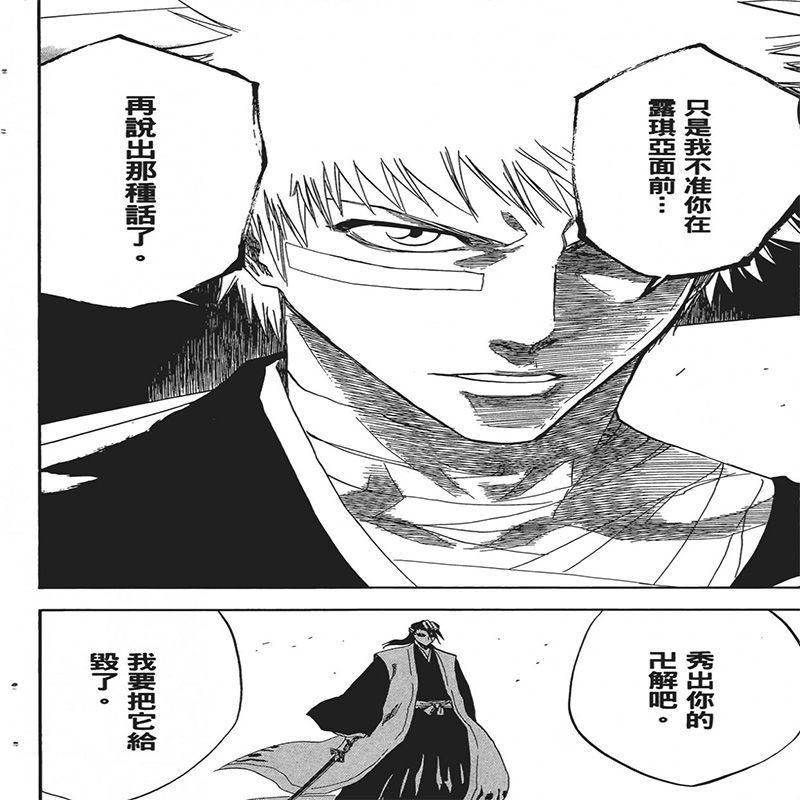
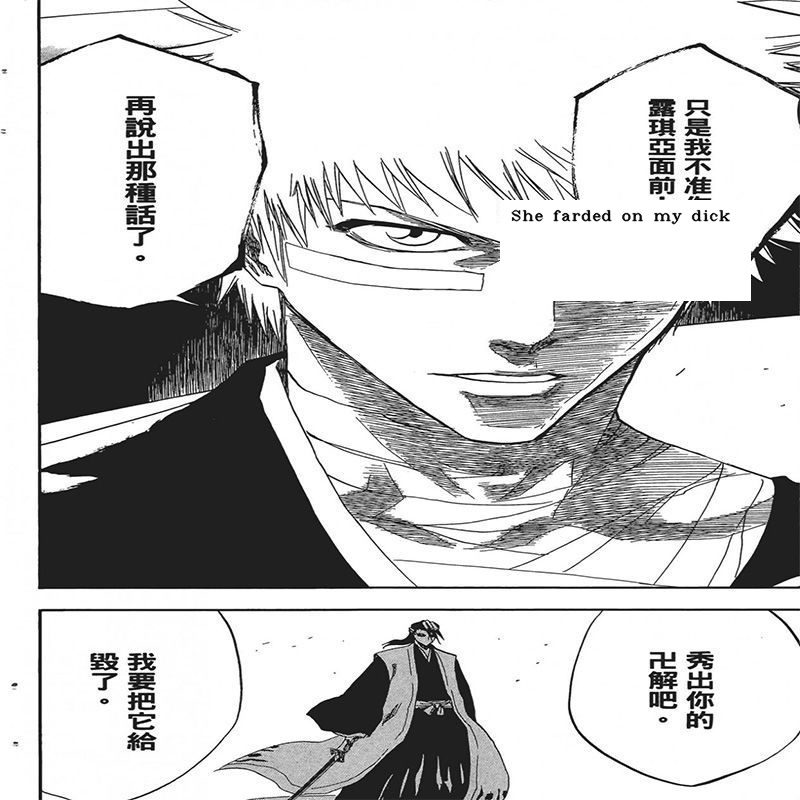
Melded the 2 image processing functions together

Changed region(s): [[0.625, 0.25, 0.9375, 0.375]]

diff --git a/files/image_processing.py b/files/image_processing.py
@@ -1,21 +1,18 @@
 import cv2
+import tkinter as tk
+from tkinter import filedialog
+from PIL import Image, ImageTk, ImageDraw 
 
-def white_out(x1, x2, y1, y2, path):
+def process_image(x1, x2, y1, y2, path, text):
     img = cv2.imread(path)
     cv2.rectangle(img,(x1,y1),(x2,y2),(255, 255, 255),-1)
-    cv2.imwrite(path, img)
-        
-        
-#white(500, 600, 200, 300, 'images\download.jpg')
-
-def sharpie_marker(x ,y, path, text):
-    # Reading an image in default mode
-    img = cv2.imread(path)
     font = cv2.FONT_HERSHEY_COMPLEX_SMALL
-    org = (x, y)
-    fontScale = 1
+    org = (x, y) #Origin of character
+    fontScale = .75
     color = (0, 0, 0)
-    thickness = 2
+    thickness = 1
     img = cv2.putText(img, text, org, font, fontScale, color, thickness, cv2.LINE_AA, False) # Change to true to change where it renders from
-    # Displaying the image
     cv2.imwrite(path, img)
+    
+process_image(500, 750, 200, 300, 'images\download.jpg', 'She farded on my dick')
+
